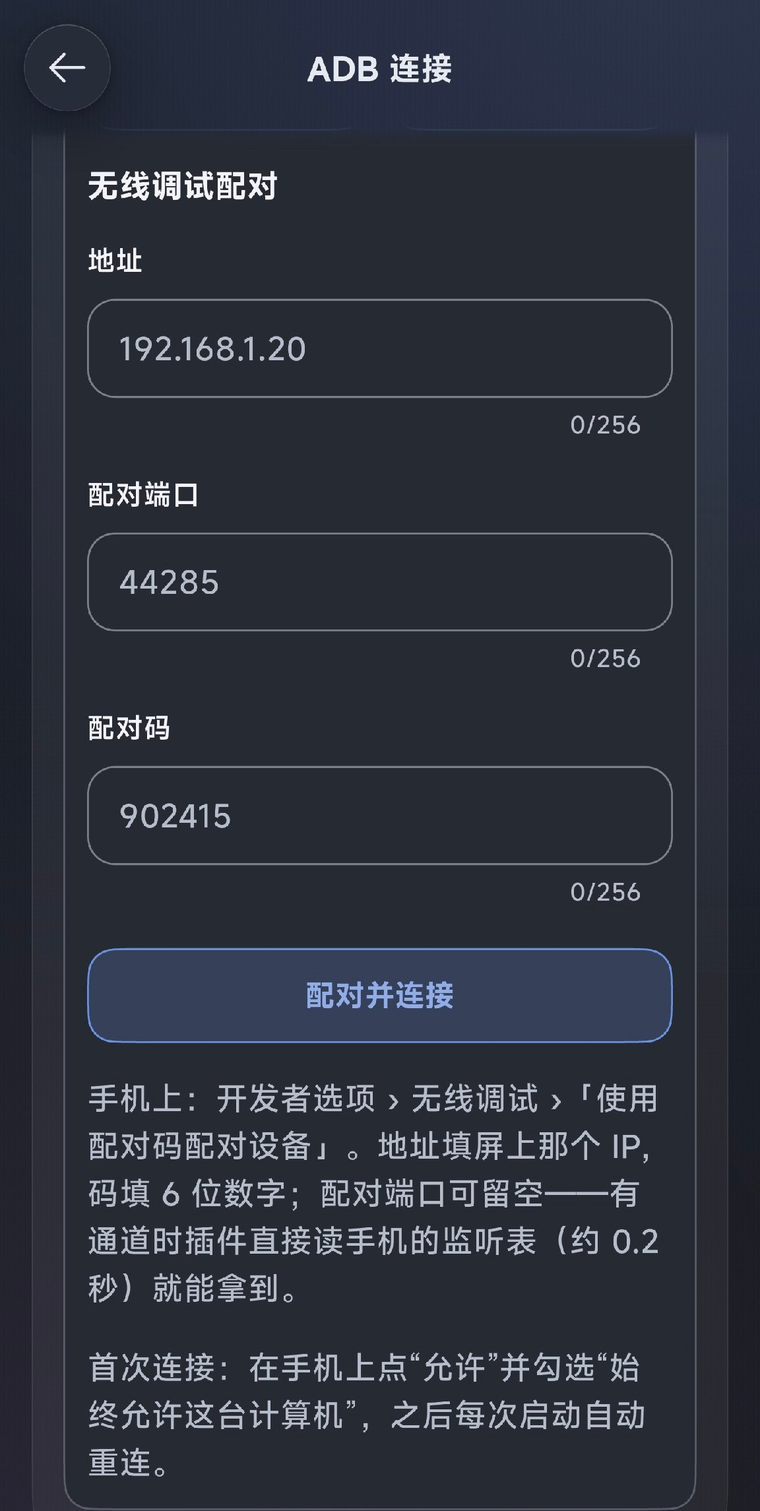
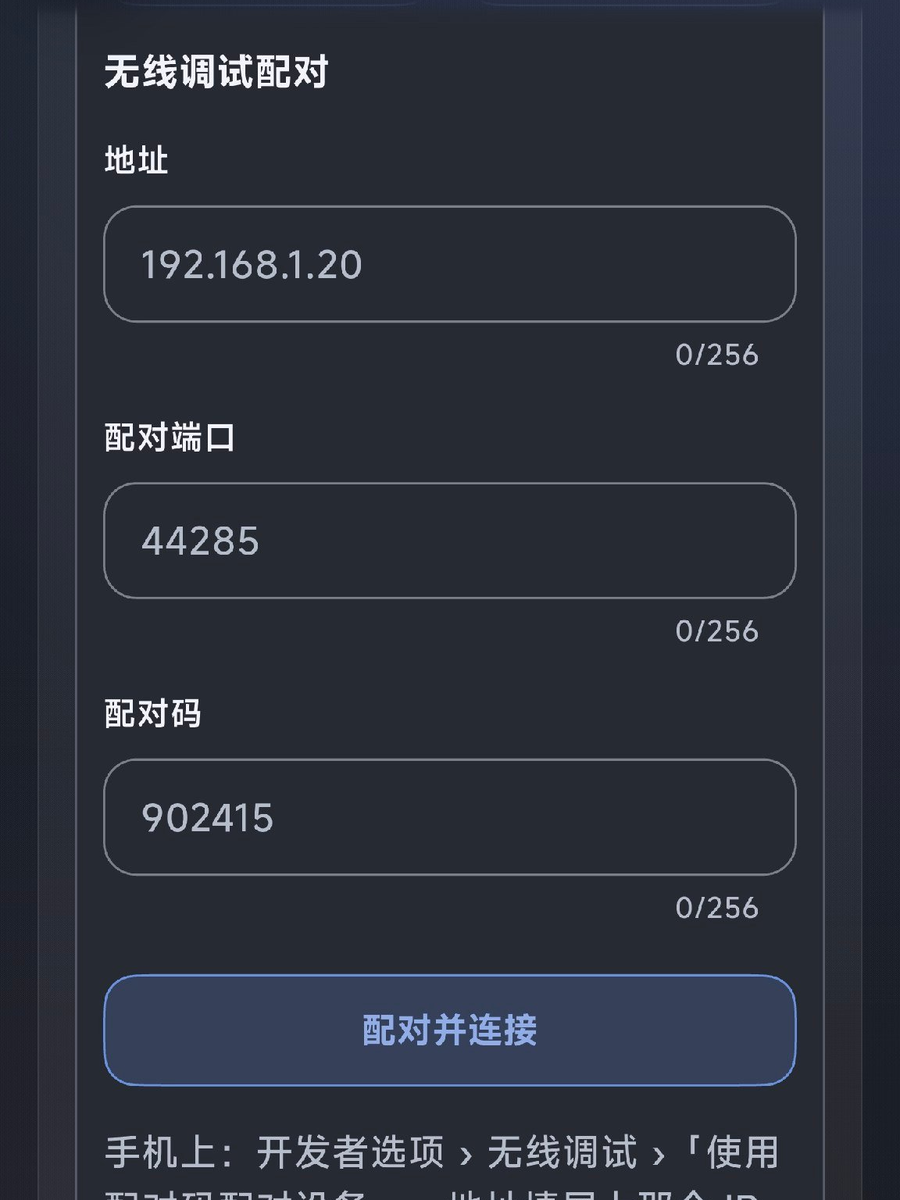
docs: 截图统一为 3:4 / 900x1200 固定比例

diff --git a/README.md b/README.md
@@ -33,7 +33,7 @@ DSH Go 的 Ubuntu 是免 root 的 proot，没有 USB，也不能 `setprop persis
 | --- | --- |
 | ![面板](docs/img/panel.png) | ![配对](docs/img/pair.png) |
 
-> 实机截图（Redmi `24117RK2CC` / Android 16 深色主题），已裁掉系统状态栏；
+> 实机截图（Redmi `24117RK2CC` / Android 16 深色主题），统一 **3:4 / 900×1200** 裁切，已裁掉系统状态栏与手势条；
 > 机器可读清单在 [`screenshots.json`](screenshots.json)。
 > 状态条在输入框上方，显示 `ADB · 3455`，点它进这个面板。
 
